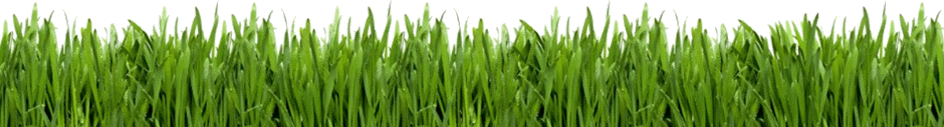
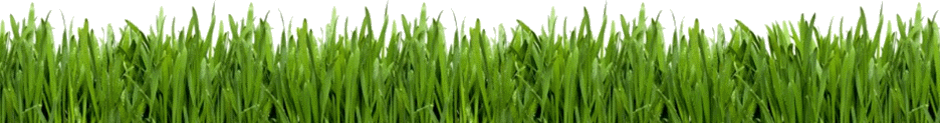
Modify grassy border at bottom

diff --git a/css/main.css b/css/main.css
@@ -21,6 +21,7 @@ main {
 header {
     background-image: url(../img/green_banner.png);
     padding: 10px;
+    background-size: 100%;
     background-repeat: no-repeat;
 }
 
@@ -196,9 +197,10 @@ button:hover {
 
 /* footer */
 
-footer img {
+#footer img {
     width: 100%;
-    opacity: 0.4;
+    height: 50px;
+    z-index: 1;
 }
 
 /* media query min width 500px */
@@ -265,10 +267,17 @@ footer img {
         width: 50%;
         float:left;
         margin-top: 40px;
-      }
+    }
       #flowers img {
         width: 100px;
         height: auto;
         display: inline-block;
-      }
+    }
+}
+
+@media (min-width: 1000px) {
+    #imagery img {
+        width: 70%;
+    }
+
 }

diff --git a/index.html b/index.html
@@ -82,10 +82,10 @@
 	
 		</main>
 
-		<footer>
+		<div id="footer">
 			<img src="img/grass.png" alt="grassy bottom border">
-		</footer>
-</div>
+		</div>
+	</div>
 
     <script src="js/main.js"></script>
 </body>
